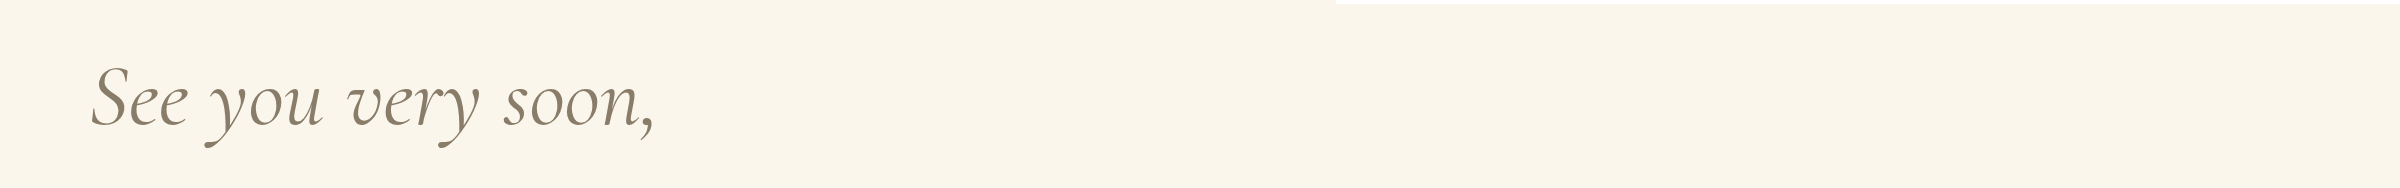
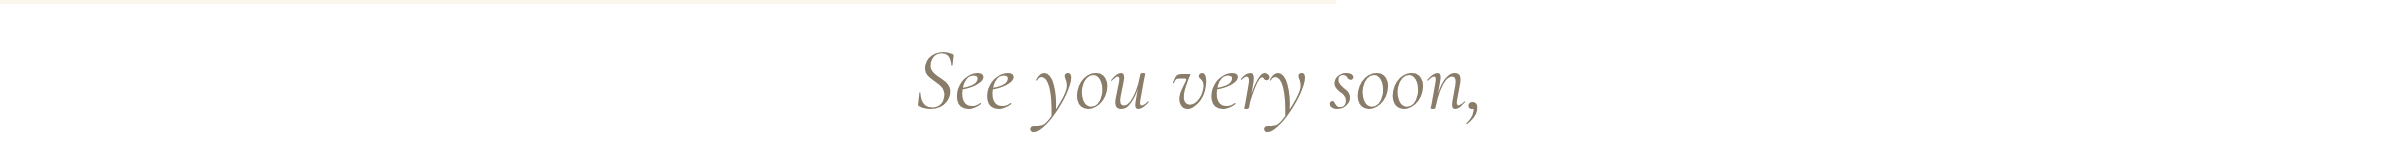
The sign-off was left-aligned by an old rule; slices now share one format
A leftover rule turned the sign-off's centred box back into an inline block,
so its line sat at the left of its own 600 px canvas and, placed at the full
column width, arrived left-aligned and outsized.

And every slice is now exported in the same format. Cuts fall wherever the
page ends, so the password box straddles one — and a PNG half meeting a JPEG
half showed as a faint band across it. PNG throughout, unless the whole
drawing is too heavy to mail, and then JPEG throughout.

Claude-Session: https://claude.ai/code/session_01WFYf9ePHzRaJm7JcUWVSwK

diff --git a/tools/invites/assets/render-card.js b/tools/invites/assets/render-card.js
@@ -113,7 +113,7 @@ table.facts tr+tr td{border-top:1px solid #E4DCC9}
    and the design is mostly both. None carries a guest's name — and the
    password, which no public file may hold, is drawn the same way into the
    couple's own Drive instead. */
-.piece-fixed{width:600px;display:flex;align-items:center;justify-content:center;padding:6px 0}
+.piece-fixed{width:600px;display:flex;align-items:center;justify-content:center;text-align:center;padding:6px 0}
 .piece-ui{font-family:Jost;font-size:11px;letter-spacing:3.4px;text-transform:uppercase;color:#6E7B5B;white-space:nowrap}
 .piece-ui.on-green{color:#FBF8EF;font-size:12.5px;letter-spacing:3.6px}
 .piece-ui.pw{font-family:Jost;font-size:21px;letter-spacing:5px;color:#3D352A}
@@ -121,7 +121,6 @@ table.facts tr+tr td{border-top:1px solid #E4DCC9}
 .piece-mark{background:#FAF6EC;padding:16px 26px;display:inline-block}
 .piece-mark .m{font-family:Pinyon;font-size:46px;line-height:1.45;color:#3D352A;white-space:nowrap}
 .piece-mark .m em{font-family:Cormorant;font-style:italic;font-size:.55em;color:#C47A54;vertical-align:.14em}
-.piece-close{background:#FAF6EC;padding:10px 22px;display:inline-block}
 .piece-close .c{font-family:Cormorant;font-style:italic;font-size:20px;line-height:1.6;color:#897C68;white-space:nowrap}
 `;
 };
